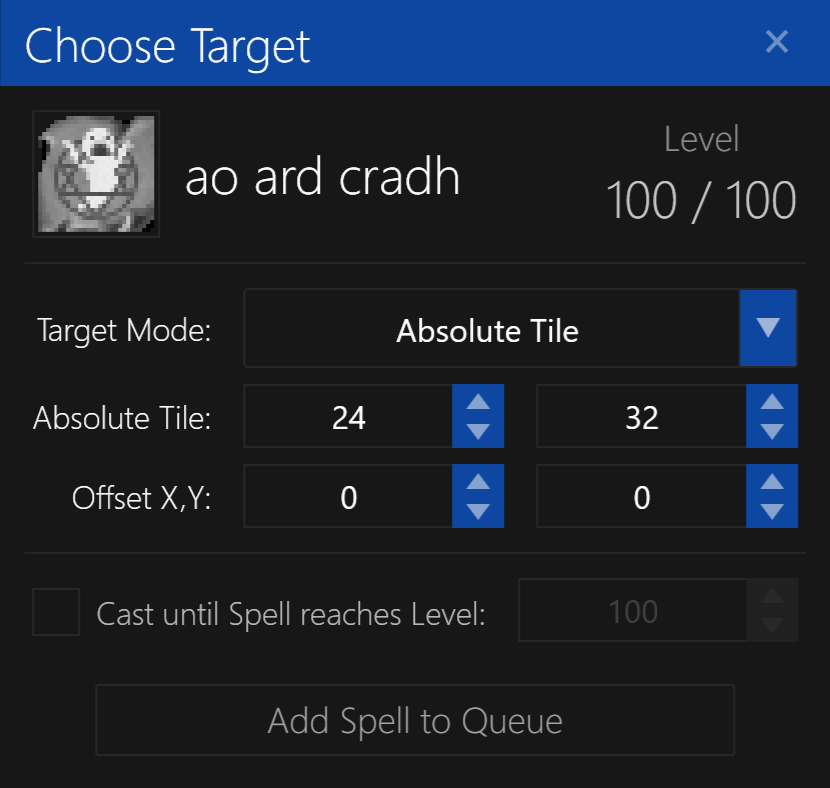
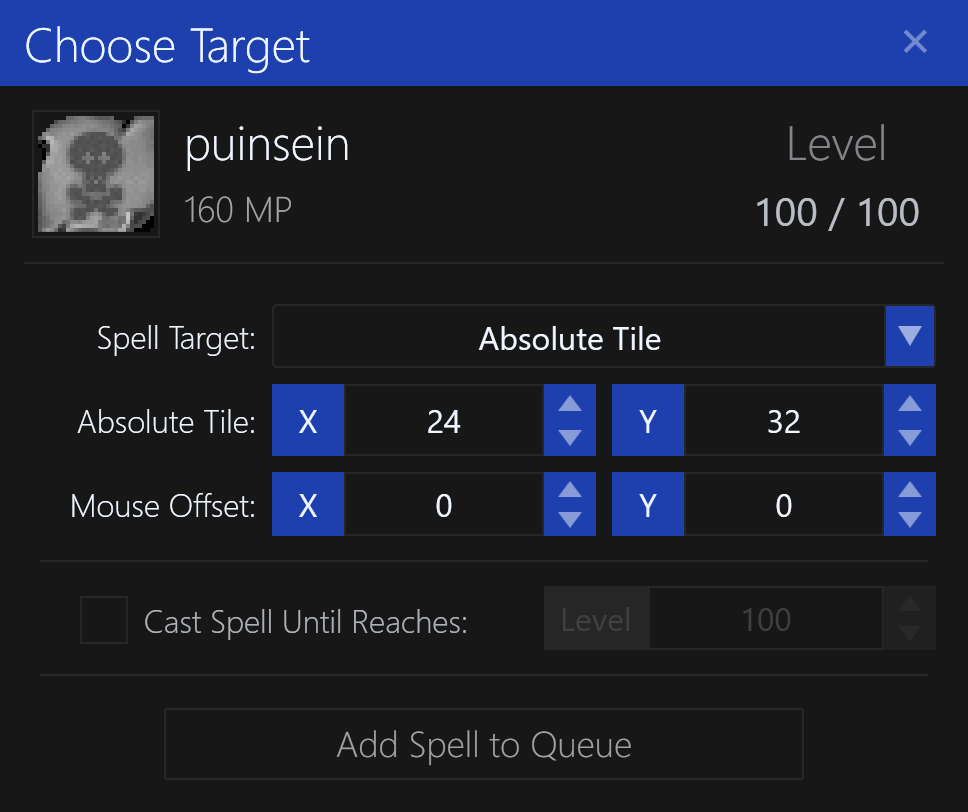
feat: update screen target examples

diff --git a/docs/src/user-interface/spell-target.md b/docs/src/user-interface/spell-target.md
@@ -8,10 +8,10 @@ It supports several different types of targets:
 - [Self](#self)
 - [Alternate Character](#alternate-character)
 - [Relative Tile](#relative-tile)
-- [Relative Tile Radius](#relative-tile-radius)
+- [Relative Tile Area](#relative-tile-area)
 - [Absolute Tile](#absolute-tile)
-- [Absolute Tile Radius](#absolute-tile-radius)
-- [Absolute Coordinates](#absolute-coordinates)
+- [Absolute Tile Area](#absolute-tile-area)
+- [Screen Position](#screen-position)
 
 This may seem like a lot of options, but it's actually quite simple. See each section below for more information.
 
@@ -21,6 +21,8 @@ This may seem like a lot of options, but it's actually quite simple. See each se
 
 This is used when a spell does not require a target, such as a self-only or group spell.
 
+The `Mouse Offset X/Y` has no effect here.
+
 **NOTE:** This option cannot be selected, it is automatically selected when the spell does not require a target.
 
 ## Self
@@ -29,21 +31,21 @@ This is used when a spell does not require a target, such as a self-only or grou
 
 This will cast the spell on yourself as the target.
 
-The `Offset X/Y` is used to fine-tune the mouse screen coordinates, if needed.
+The `Mouse Offset X/Y` is used to fine-tune the mouse screen coordinates, if needed.
 
 **NOTE:** The older `Relative Coordinates` target type has been replaced with this new `Offset X/Y` target type on `Self`, as it was redundant.
 
 ## Alternate Character
 
-![image](../screenshots/spell-target-alternate-character.png)
+![image](../screenshots/spell-target-character.png)
 
 This will cast the spell on another character logged in on the same computer.
 
 **NOTE:** The other character must be within visible range of the character casting the spell.
 
-The `Target Character` is used to select the character you wish to cast the spell on.
+The `Character` specifies the other character you wish to cast the spell on.
 
-The `Offset X/Y` is used to fine-tune the mouse screen coordinates, if needed.
+The `Mouse Offset X/Y` is used to fine-tune the mouse screen coordinates, if needed.
 
 ## Relative Tile
 
@@ -54,13 +56,13 @@ For example, "2 Left, 1 Down" would be the tile located 2 tiles left and 1 tile 
 
 This relative tile will be preserved even if the character moves to a different tile.
 
-The `Relative X/Y` is used to select the tile relative to your character's current position.
+The `Relative Tile` is the tile relative to your character's current position. It will be cast on.
 
-The `Offset X/Y` is used to fine-tune the mouse screen coordinates, if needed.
+The `Mouse Offset X/Y` is used to fine-tune the mouse screen coordinates, if needed.
 
-## Relative Tile Radius
+## Relative Tile Area
 
-![image](../screenshots/spell-target-relative-tile-radius.png)
+![image](../screenshots/spell-target-relative-tile-area.png)
 
 This will cast the spell in an circular area relative to the character's current position.
 The spell will be cast on the tiles in a clockwise order.
@@ -71,7 +73,7 @@ In the above example, the `Inner Radius` is set to **2**, and the `Outer Radius`
 The dead-zone is the area in the center of the circle, where no spells will be cast.
 The solid blue tiles are the tiles that will be selected for casting the spell, in clockwise order.
 
-The `Relative X/Y` is used to select the tile relative to your character's current position. This will be the center of the circular region.
+The `Relative Tile` is the tile relative to your character's current position. This will be the center of the circular region.
 
 The `Inner Radius` is used to select the dead-zone, where no spells will be cast.
 Use **Zero (0)** to disable the dead-zone and include the center tile, turning it into a solid circle.
@@ -79,7 +81,7 @@ Use **Zero (0)** to disable the dead-zone and include the center tile, turning i
 The `Outer Radius` is used to select the outer radius of the circle. This is the maximum distance from the center where spells will be cast.
 This value must be greater than the `Inner Radius`.
 
-The `Offset X/Y` is used to fine-tune the mouse screen coordinates, if needed.
+The `Mouse Offset X/Y` is used to fine-tune the mouse screen coordinates, if needed.
 
 This can be useful in some instances, such as periodically casting a spell on targets within an area without knowing their exact location.
 
@@ -91,13 +93,13 @@ This will cast the spell on a tile at a specific location on the map, regardless
 
 **NOTE:** You must be within visible range of the tile for the spell to be cast.
 
-The `Absolute X/Y` is used to select the tile on the map to cast the spell on.
+The `Absolute Tile` is the tile on the map to cast the spell on. It is not relative to your character's current position.
 
 The `Offset X/Y` is used to fine-tune the mouse screen coordinates, if needed.
 
-## Absolute Tile Radius
+## Absolute Tile Area
 
-![image](../screenshots/spell-target-absolute-tile-radius.png)
+![image](../screenshots/spell-target-absolute-tile-area.png)
 
 This will cast the spell in an circular area around a location on the map, regardless of the character's current position.
 The spell will be cast on the tiles in a clockwise order.
@@ -108,7 +110,8 @@ In the above example, the `Inner Radius` is set to **2**, and the `Outer Radius`
 The dead-zone is the area in the center of the circle, where no spells will be cast.
 The solid blue tiles are the tiles that will be selected for casting the spell, in clockwise order.
 
-The `Absolute X/Y` is used to select the tile on the map. This will be the center of the circular region.
+The `Absolute Tile` is used to select the tile on the map. This will be the center of the circular region.
+It is not relative to your character's current position.
 
 The `Inner Radius` is used to select the dead-zone, where no spells will be cast.
 Use **Zero (0)** to disable the dead-zone and include the center tile, turning it into a solid circle.
@@ -118,14 +121,12 @@ This value must be greater than the `Inner Radius`.
 
 The `Offset X/Y` is used to fine-tune the mouse screen coordinates, if needed.
 
-This can be useful in some instances, such as periodically casting a spell on targets within an area without knowing their exact location.
+This can be useful in some instances, such as periodically casting a spell on targets within an area without worrying about the character's current position.
 
-## Absolute Coordinates
+## Screen Position
 
-![image](../screenshots/spell-target-absolute-coordinates.png)
+![image](../screenshots/spell-target-screen-coordinates.png)
 
 This will cast the spell on a specific location on the screen, regardless of the character's current position.
 
-The `Absolute X/Y` is used to select the location on the screen to cast the spell on, in pixels.
-
-The `Offset X/Y` is used to fine-tune the mouse screen coordinates, if needed.
+The `Screen Position X/Y` is used to select the location on the screen to cast the spell on, in pixels.
